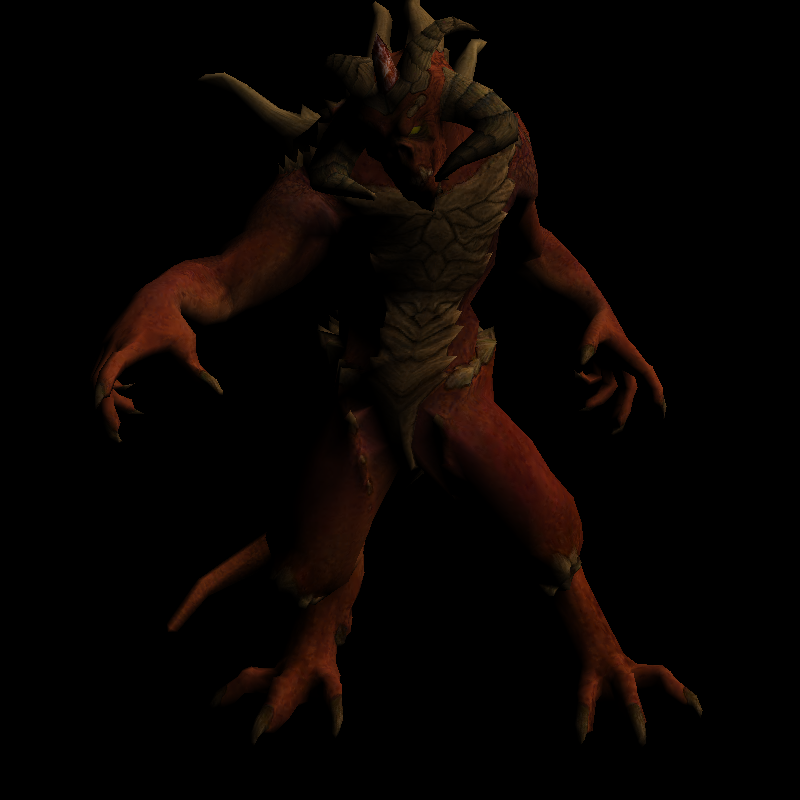
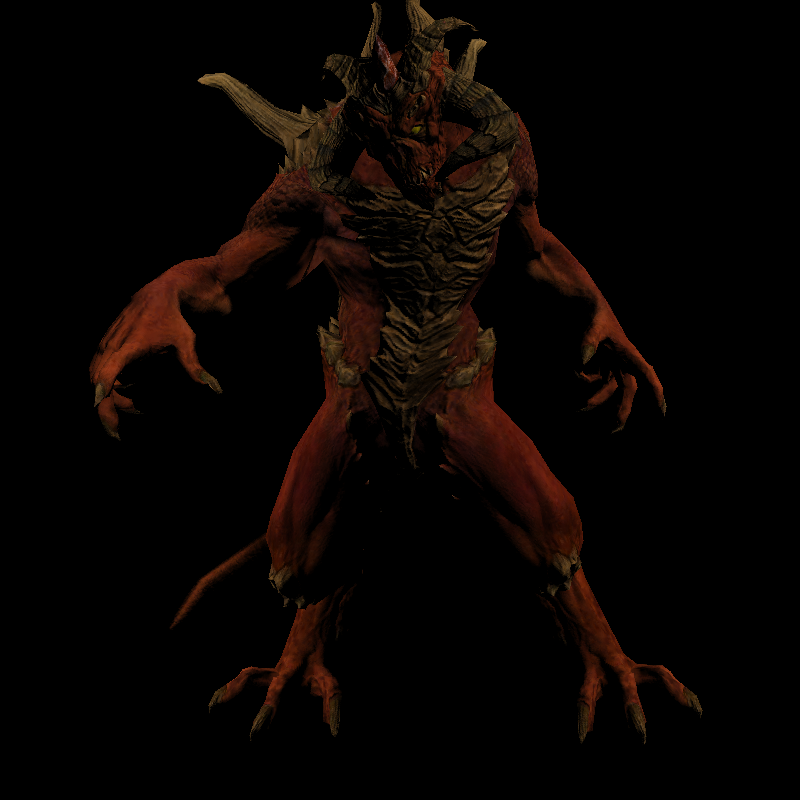
Add normal map

diff --git a/src/main/kotlin/fr/oyashirox/TextureShader.kt b/src/main/kotlin/fr/oyashirox/TextureShader.kt
@@ -7,19 +7,18 @@ import fr.oyashirox.model.Texture
 import fr.oyashirox.model.VertexAttributes
 
 @Suppress("MemberVisibilityCanBePrivate")
-class TextureShader(val lightDir: Vector, val mvp: Matrix, val texture: Texture): Shader {
+class TextureShader(val lightDir: Vector, val mvp: Matrix, val texture: Texture, val normalTex: Texture): Shader {
     override var interpolate: MutableList<Vector> = mutableListOf()
 
     override fun vertex(context: GL, attributes: VertexAttributes): Point {
         interpolate.add(attributes.texCoords)
-        val intensity = attributes.normal.dot(-lightDir).coerceAtLeast(0.0)
-        interpolate.add(Vector(intensity))
         return (mvp * attributes.vertex.toMatrix()).toVector().toPoint()
     }
 
     override fun fragment(context: GL, weight: Vector): Color? {
         val texCoords = interpolate[0]
-        val intensity = interpolate[1].x
+        val normal = (2.0 * normalTex[texCoords].toVector() - 1.0).normalize()
+        val intensity = normal.dot(-lightDir).coerceAtLeast(0.0)
         return intensity * texture[texCoords]
     }
 }

diff --git a/src/main/kotlin/fr/oyashirox/Main.kt b/src/main/kotlin/fr/oyashirox/Main.kt
@@ -48,7 +48,7 @@ fun main() {
 
     val time = measureTimeMillis {
         camera.lookAt(Vector(1.0, 1.0, 4.0), Vector())
-        val shader: Shader = TextureShader(Vector(-1.0, -1.0, 0.0).normalize(), camera.combinedMatrix, texture)
+        val shader: Shader = TextureShader(Vector(-1.0, -1.0, 0.0).normalize(), camera.combinedMatrix, texture, textureNormal)
         renderer.render(model, shader)
         image.flipVertically()
     }

diff --git a/src/main/kotlin/fr/oyashirox/math/Color.kt b/src/main/kotlin/fr/oyashirox/math/Color.kt
@@ -27,6 +27,11 @@ data class Color(val argb: Int) {
     inline val a: Int
         get() = argb and 0xFF000000.toInt() shr 24
 
+    fun toVector() = Vector(
+        r / 255.0,
+        g / 255.0,
+        b / 255.0
+    )
 
     companion object {
         val RED = Color(r = 255)
